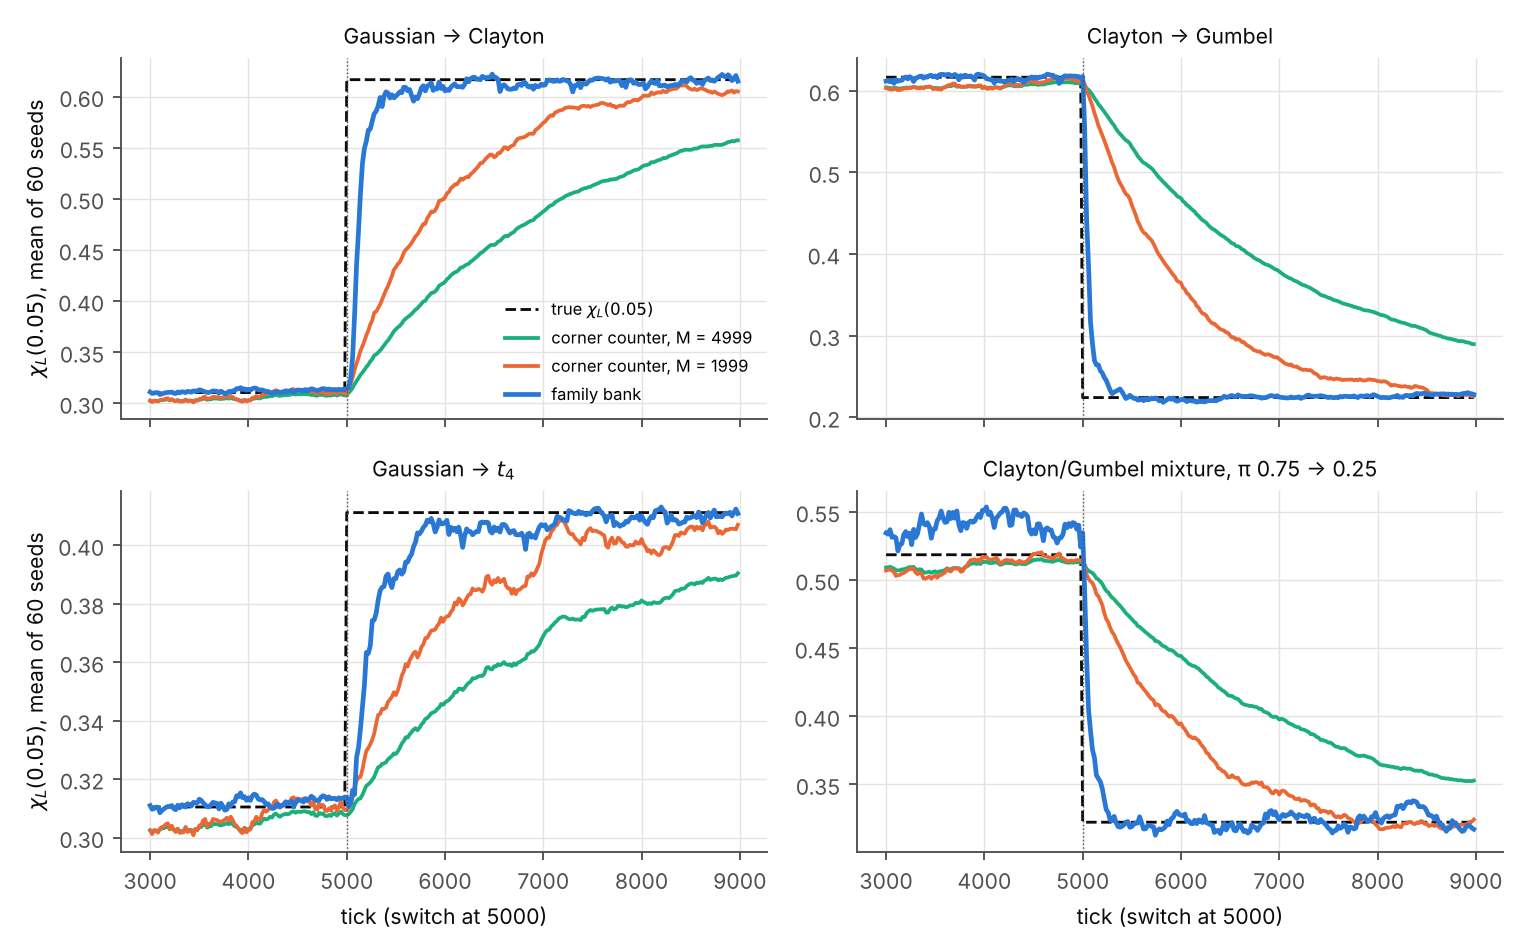
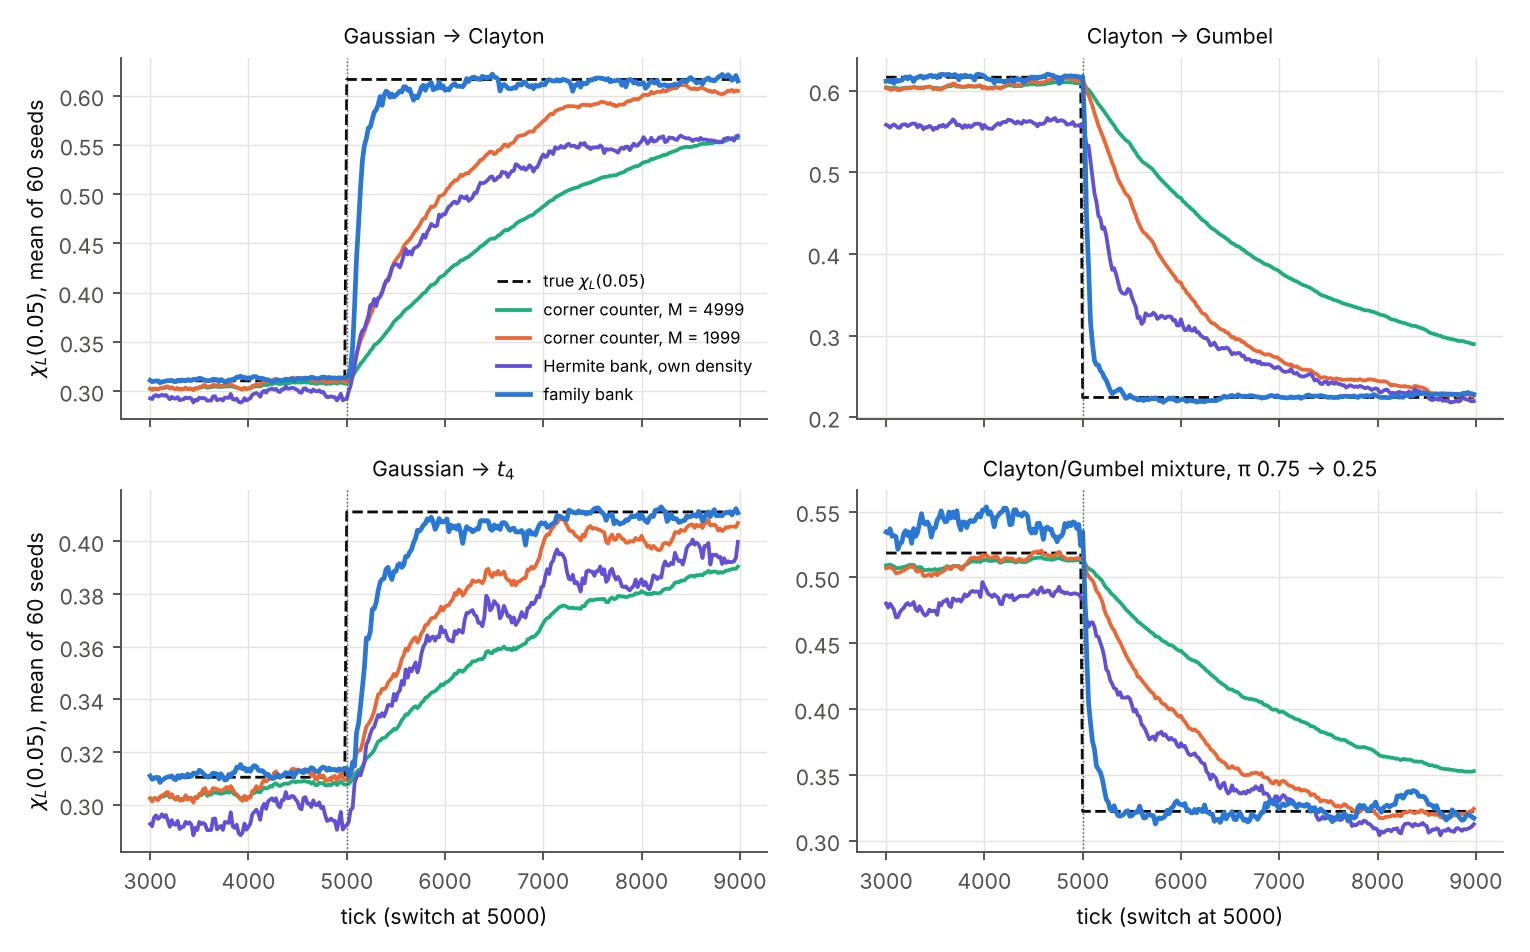
Tails: Hermite and Xiao chi(q) from their own densities (60 seeds); family-bank summary figure; notes and 6.6 updated
Claude-Session: https://claude.ai/code/session_011LH6MHfBJAMQDu7UQqGgRH

diff --git a/experiments/plot_family_summary.py b/experiments/plot_family_summary.py
@@ -35,10 +35,11 @@ def strip(ax, wide, refs, title, xlabel):
             better += m + h < 0
             y = -j + (i - (len(cells) - 1) / 2) * 0.5 / len(cells)
             ax.errorbar(m, y, xerr=h, fmt="o", ms=3, color=col, ecolor=col, elinewidth=0.8, capsize=0)
-        ax.text(1.0, -j, f"{better}/{len(cells)}", transform=ax.get_yaxis_transform(), va="center", fontsize=7.5,
+        ax.text(1.03, -j, f"{better}/{len(cells)}", transform=ax.get_yaxis_transform(), va="center", fontsize=7.5,
                 color=INK2)
     ax.axvline(0, color=INK, lw=0.8)
     ax.set_xscale("symlog", linthresh=10)
+    ax.set_xlim(-300, 150)
     ax.set_yticks([-j for j in range(len(refs))], [lab for _, lab in refs])
     ax.grid(axis="x", color=GRID, lw=0.6)
     ax.set_title(title, color=INK, fontsize=9, loc="left")
@@ -78,12 +79,12 @@ n50 = null.groupby("seed").t50.apply(lambda x: (x >= 0).any()).sum()
 a.set_yticks([-j for j in range(len(sw))], [l for _, l in sw])
 a.set_xlim(0, 600)
 a.grid(axis="x", color=GRID, lw=0.6)
-a.set_title("(d) Shape switch at constant $\\rho_S$: ticks until the new family holds 50% of the weight",
+a.set_title("(d) Shape switch at constant $\\rho_S$: ticks until\nthe new family holds 50% of the weight",
             color=INK, fontsize=9, loc="left")
-a.set_xlabel(f"ticks after the switch (one dot per seed). No switch (Gaussian): a wrong family reached 50% in {n50}/60 seeds")
+a.set_xlabel(f"ticks after the switch (one dot per seed)\nno switch (Gaussian path): a wrong family reached 50% in {n50}/60 seeds")
 fig.suptitle("Family bank against fair competitors. Points: one cell, paired mean ± 2 SE over 60 seeds; "
              "blue = family bank better beyond 2 SE, orange = worse, grey = within; n/N = cells better",
              fontsize=8.5, color=INK)
-fig.tight_layout(rect=(0, 0, 0.98, 0.96))
+fig.tight_layout(rect=(0, 0, 0.97, 0.96), w_pad=4)
 fig.savefig("../notes/thesis/figures/ch6_family_summary.png", dpi=170)
 print("wrote ch6_family_summary.png")

diff --git a/experiments/plot_ch6_compare.py b/experiments/plot_ch6_compare.py
@@ -2,7 +2,8 @@
   ch6_bank_forest.png    log bank minus each competitor, rho_S RMSE (mean +- 2 SE, paired over seeds), per family
                          x estimator, drift and jump. results/thesis_bank[_fam].csv (probe_thesis_bank).
   ch6_bank_recovery.png  rho_S RMSE by window after the jump, averaged over the 4 families, per estimator.
-  ch6_tail_chi.png       seed-mean chi_L(0.05) around each switch: family bank, tail_chi M = 1999 / 4999, truth.
+  ch6_tail_chi.png       seed-mean chi_L(0.05) around each switch: family bank, Hermite own-density bank,
+                         tail_chi M = 1999 / 4999, truth.
                          results/tail_bank_path_<regime>_42.csv (probe_tail_bank).
 Usage (from experiments/): python3 plot_ch6_compare.py -> ../notes/thesis/figures/"""
 import os
@@ -102,6 +103,8 @@ for ax, (rg, title) in zip(axes.flat, regs):
     ax.plot(s("true").index, s("true"), color=INK, lw=1.2, ls="--", label="true $\\chi_L(0.05)$")
     ax.plot(s("tail_chi_4999").index, s("tail_chi_4999"), color=AQUA, lw=1.6, label="corner counter, M = 4999")
     ax.plot(s("tail_chi_1999").index, s("tail_chi_1999"), color=ORANGE, lw=1.6, label="corner counter, M = 1999")
+    ax.plot(s("hermite_bank_own").index, s("hermite_bank_own"), color="#6250d6", lw=1.6,
+            label="Hermite bank, own density")
     ax.plot(s("family_bank").index, s("family_bank"), color=BLUE, lw=2, label="family bank")
     ax.axvline(5000, color=INK2, lw=0.6, ls=":")
     ax.set_title(title, color=INK, fontsize=9)

diff --git a/notes/thesis/chapter6_draft.tex b/notes/thesis/chapter6_draft.tex
@@ -837,7 +837,14 @@ ties none; at $M=4999$ it wins 16, loses 2 and ties 2. The margins are as follow
   \item On Gaussian$\to t_4$ the gap is $25$ against $48$--$52$.
 \end{itemize}
 The bank turns every observation into a few copula parameters. The counter uses only the
-$\approx qM$ corner events, with variance $\chi(1-\chi)/(qM)$. In the 500 ticks after a switch the
+$\approx qM$ corner events, with variance $\chi(1-\chi)/(qM)$. At $q=0.05$ the counter is the corner
+cell of Xiao's $20\times20$ histogram read directly, so it is also the Xiao comparison.
+
+The nonparametric density estimators give the same picture when $\chi(q)$ is read off their own
+predictive densities. Against them the bank wins 16 of 20 cells against the Hermite own-density bank,
+16 against a single Hermite estimator at $M=1999$, and 18 against Xiao's histogram density at
+$M=1999$; it loses only on the mixture. Hermite's order-10 series also smooths the corner, so it
+under-reads $\chi$: $0.56$ against $0.62$ for Clayton. In the 500 ticks after a switch the
 bank has the lowest error in all 16 switch cells, including the mixture.
 
 \paragraph{It follows a change in a few hundred ticks.} The seed-mean bank estimate crosses halfway

diff --git a/notes/studies/thesis_bank_tails.md b/notes/studies/thesis_bank_tails.md
@@ -144,6 +144,38 @@ W/L/T over the 20 cells (W = family bank lower):
 - Every loss to the best arm is the Gaussian arm on the pure Gaussian path. That arm is the oracle there,
   and the bank's cost for not knowing the family is 4–6.
 
+### Nonparametric competitors: Hermite and Xiao read through their own densities
+
+Added after the first run. Each competitor's $\chi(q)$ is P(both in the corner) / P(U in the tail),
+computed from its own predictive density by a midpoint rule every 20 ticks, on the same rank PIT.
+
+**The corner counter is Xiao's corner cell.** Xiao's 20 × 20 histogram has bins 0.05 wide, so at
+q = 0.05 the corner counter *is* Xiao's corner cell read directly. The only differences are the shared
+rank PIT, which replaces Xiao's frozen cut-points, and the free choice of q.
+
+The density-based Xiao estimator here is a 20 × 20 histogram, with prior mass 12.5 pseudo-observations,
+the same total as the default 5 × 5 pooling. With the default 0.5 per cell on a 20 × 20 grid, the prior
+(200 pseudo-observations of independence) pulled $\chi$ to about q.
+
+Whole-run RMSE, family bank minus each competitor, W/L/T over the 20 cells:
+
+| competitor | W/L/T | where it loses |
+| --- | --- | --- |
+| Hermite own-density bank | 16/4/0 | mix, +13 to +20 |
+| Hermite N = 10, M = 399 | 19/0/1 | — |
+| Hermite N = 10, M = 1999 | 16/4/0 | mix, +13 to +20 |
+| Xiao 20 × 20, M = 399 | 20/0/0 | — |
+| Xiao 20 × 20, M = 1999 | 18/2/0 | mix q = 0.10, +8 and +13 |
+
+- **Hermite's $\chi$ is biased low before the switch.** The order-10 series smooths the corner: on
+  Clayton → Gumbel it reads 0.56 against a target of 0.62.
+- **Hermite follows a switch faster than the counter at M = 1999, but much more slowly than the family
+  bank.** The figure `ch6_tail_chi.png` shows this.
+- **The pattern is the corner counter's**: the family bank wins everywhere its families contain the
+  truth, and loses only on the mixture.
+
+The full table is printed by `tail_bank_table.py`.
+
 ### Selected windows, q = 0.05, lower tail: RMSE and bias
 
 | regime | method | RMSE pre | RMSE post 0–500 | RMSE post 2000–5000 | bias pre | bias post 0–500 | bias post 2000–5000 |
